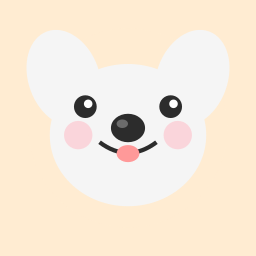
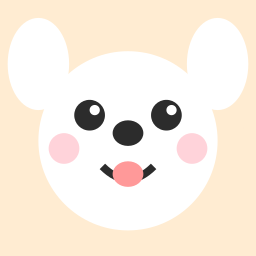
feat: 修复3个问题
1. 历史记录同步 - 保存到云数据库 questions 集合
2. 排行榜改版 - 显示问题列表而非用户排名
3. 重新生成西高地头像 - 只需脸部特征

Changed region(s): [[0.125, 0.375, 0.875, 0.9062], [0.0312, 0.0625, 0.9688, 0.4375]]

diff --git a/pages/leaderboard/leaderboard.js b/pages/leaderboard/leaderboard.js
@@ -1,93 +1,90 @@
 // pages/leaderboard/leaderboard.js
 Page({
   data: {
-    rankList: [],
-    currentUserRank: null,
-    filter: 'likes',
-    currentUser: null
+    questionList: [],
+    loading: false,
+    filter: 'latest',
+    hasMore: true,
+    page: 1
   },
 
   onLoad() {
-    this.loadRankList();
-    this.getCurrentUser();
+    this.loadQuestions();
   },
 
   onShow() {
     this.refreshData();
   },
 
-  // 加载排行榜
-  loadRankList() {
-    wx.cloud.callFunction({
-      name: 'getLeaderboard',
-      data: { filter: this.data.filter }
-    }).then(res => {
-      if (res.result && res.result.success) {
-        this.setData({
-          rankList: res.result.list,
-          currentUserRank: res.result.currentUserRank
-        });
-      }
-    }).catch(err => {
-      console.error('加载排行榜失败:', err);
-      // 使用模拟数据
-      const mockData = [
-        { id: 1, nickName: '怼神降临', avatarUrl: '', totalLikes: 1234, totalQuestions: 50, score: 1234 },
-        { id: 2, nickName: '机智小狐狸', avatarUrl: '', totalLikes: 987, totalQuestions: 42, score: 987 },
-        { id: 3, nickName: '快乐小狗', avatarUrl: '', totalLikes: 856, totalQuestions: 38, score: 856 },
-        { id: 4, nickName: '佛系青年', avatarUrl: '', totalLikes: 654, totalQuestions: 25, score: 654 },
-        { id: 5, nickName: '乐观向上', avatarUrl: '', totalLikes: 543, totalQuestions: 18, score: 543 }
-      ];
-      
-      this.setData({ rankList: mockData });
-    });
-  },
+  // 加载问题列表
+  loadQuestions() {
+    if (this.data.loading || !this.data.hasMore) return;
 
-  // 获取当前用户
-  getCurrentUser() {
-    wx.cloud.callFunction({
-      name: 'getUserProfile'
-    }).then(res => {
-      if (res.result && res.result.userInfo) {
-        this.setData({ currentUser: res.result.userInfo });
-      }
-    }).catch(() => {
-      // 使用本地存储的用户
-      const userInfo = wx.getStorageSync('userInfo');
-      if (userInfo) {
-        this.setData({ currentUser: userInfo });
-      }
-    });
+    this.setData({ loading: true });
+
+    const db = wx.cloud.database();
+    const _ = db.command;
+
+    const orderBy = this.data.filter === 'likes' ? 'likes' : 'createTime';
+
+    db.collection('questions')
+      .orderBy(orderBy, 'desc')
+      .limit(20)
+      .skip((this.data.page - 1) * 20)
+      .get()
+      .then(res => {
+        const newQuestions = res.data;
+        this.setData({
+          questionList: [...this.data.questionList, ...newQuestions],
+          page: this.data.page + 1,
+          loading: false,
+          hasMore: newQuestions.length === 20
+        });
+      })
+      .catch(err => {
+        console.error('加载问题失败:', err);
+        this.setData({ loading: false });
+      });
   },
 
   // 筛选
   onFilterTap(e) {
     const { filter } = e.currentTarget.dataset;
     if (filter === this.data.filter) return;
-    
-    this.setData({ filter });
-    this.loadRankList();
+
+    this.setData({ 
+      filter, 
+      questionList: [], 
+      page: 1, 
+      hasMore: true 
+    });
+    this.loadQuestions();
   },
 
   // 刷新数据
   refreshData() {
-    this.loadRankList();
-  },
-
-  // 查看用户详情
-  onUserTap(e) {
-    const { userId } = e.currentTarget.dataset;
-    wx.showToast({
-      title: '功能开发中',
-      icon: 'none'
+    this.setData({ 
+      questionList: [], 
+      page: 1, 
+      hasMore: true 
     });
+    this.loadQuestions();
   },
 
   onPullDownRefresh() {
-    this.loadRankList().then(() => {
+    this.setData({ 
+      questionList: [], 
+      page: 1, 
+      hasMore: true 
+    });
+    this.loadQuestions().then(() => {
       wx.stopPullDownRefresh();
     }).catch(() => {
       wx.stopPullDownRefresh();
     });
+  },
+
+  onReachBottom() {
+    this.loadQuestions();
   }
 });

diff --git a/pages/index/index.js b/pages/index/index.js
@@ -52,7 +52,7 @@ Page({
         const { reply, questionId } = result;
         console.log('[onGenerateTap] 成功! reply:', reply);
         
-        // 保存到历史记录
+        // 保存到本地和云数据库
         this.saveToHistory(question, reply);
         
         // 跳转结果页 - 使用绝对路径
@@ -71,14 +71,32 @@ Page({
     });
   },
 
-  // 保存到历史记录
+  // 保存到历史记录和云数据库
   saveToHistory(question, reply) {
+    const db = wx.cloud.database();
+    const now = new Date();
+    
+    // 1. 保存到云数据库 (供社群页使用)
+    db.collection('questions').add({
+      data: {
+        question: question,
+        reply: reply,
+        likes: 0,
+        createTime: now.toISOString()
+      }
+    }).then(res => {
+      console.log('[saveToHistory] 云数据库保存成功:', res._id);
+    }).catch(err => {
+      console.error('[saveToHistory] 云数据库保存失败:', err);
+    });
+    
+    // 2. 保存到本地历史记录
     let history = wx.getStorageSync('history') || [];
     const newItem = {
       id: Date.now(),
       question,
       reply,
-      createTime: new Date().toLocaleString('zh-CN')
+      createTime: now.toLocaleString('zh-CN')
     };
     
     // 添加到开头，保留最近50条
